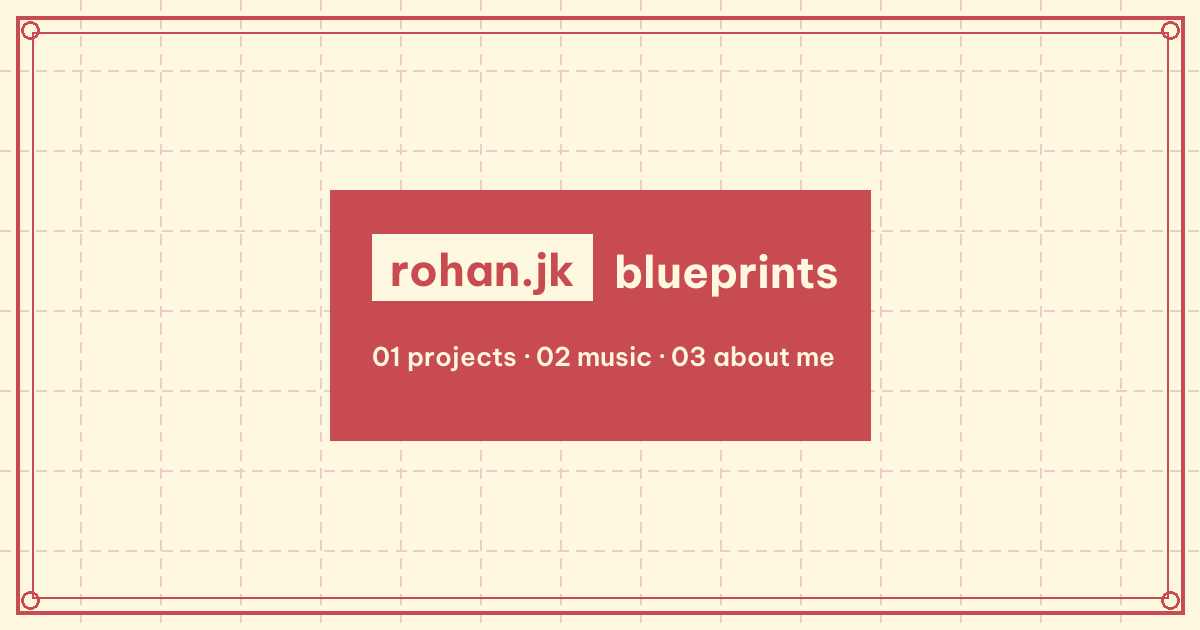
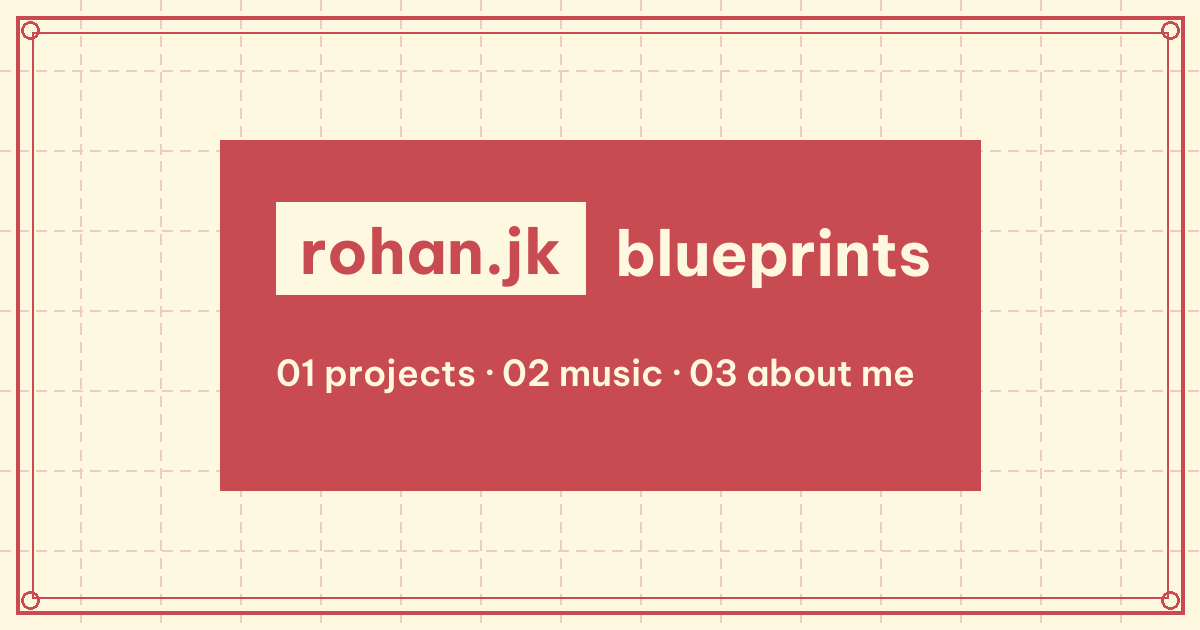
og: generic card panel and type enlarged

Changed region(s): [[0.185, 0.2111, 0.8325, 0.7841]]

diff --git a/tools/generate_blueprint_og.py b/tools/generate_blueprint_og.py
@@ -147,18 +147,18 @@ def generic_card():
     dashed_grid(d)
     sheet_chrome(d)
 
-    # centre crimson panel, like the home menu
-    px0, py0, px1, py1 = 330, 190, W - 330, H - 190
+    # centre crimson panel, like the home menu — sized so the type carries
+    px0, py0, px1, py1 = 220, 140, W - 220, H - 140
     d.rectangle([px0, py0, px1, py1], fill=INK)
-    chip = load_font('BeVietnamPro-Bold.woff2', 44)
-    chip_w = d.textlength('rohan.jk', font=chip) + 36
-    cx = px0 + 42
-    cy = py0 + 44
-    d.rectangle([cx, cy, cx + chip_w, cy + 66], fill=CREAM)
-    d.text((cx + 18, cy + 8), 'rohan.jk', font=chip, fill=INK)
-    d.text((cx + chip_w + 22, cy + 10), 'blueprints', font=chip, fill=CREAM)
-    sub = load_font('BeVietnamPro-SemiBold.woff2', 26)
-    d.text((cx, cy + 106), '01 projects · 02 music · 03 about me', font=sub, fill=CREAM)
+    chip = load_font('BeVietnamPro-Bold.woff2', 62)
+    chip_w = d.textlength('rohan.jk', font=chip) + 48
+    cx = px0 + 56
+    cy = py0 + 62
+    d.rectangle([cx, cy, cx + chip_w, cy + 92], fill=CREAM)
+    d.text((cx + 24, cy + 10), 'rohan.jk', font=chip, fill=INK)
+    d.text((cx + chip_w + 30, cy + 12), 'blueprints', font=chip, fill=CREAM)
+    sub = load_font('BeVietnamPro-SemiBold.woff2', 36)
+    d.text((cx, cy + 148), '01 projects · 02 music · 03 about me', font=sub, fill=CREAM)
 
     img.save(OUT / 'blueprint.png', optimize=True)
 